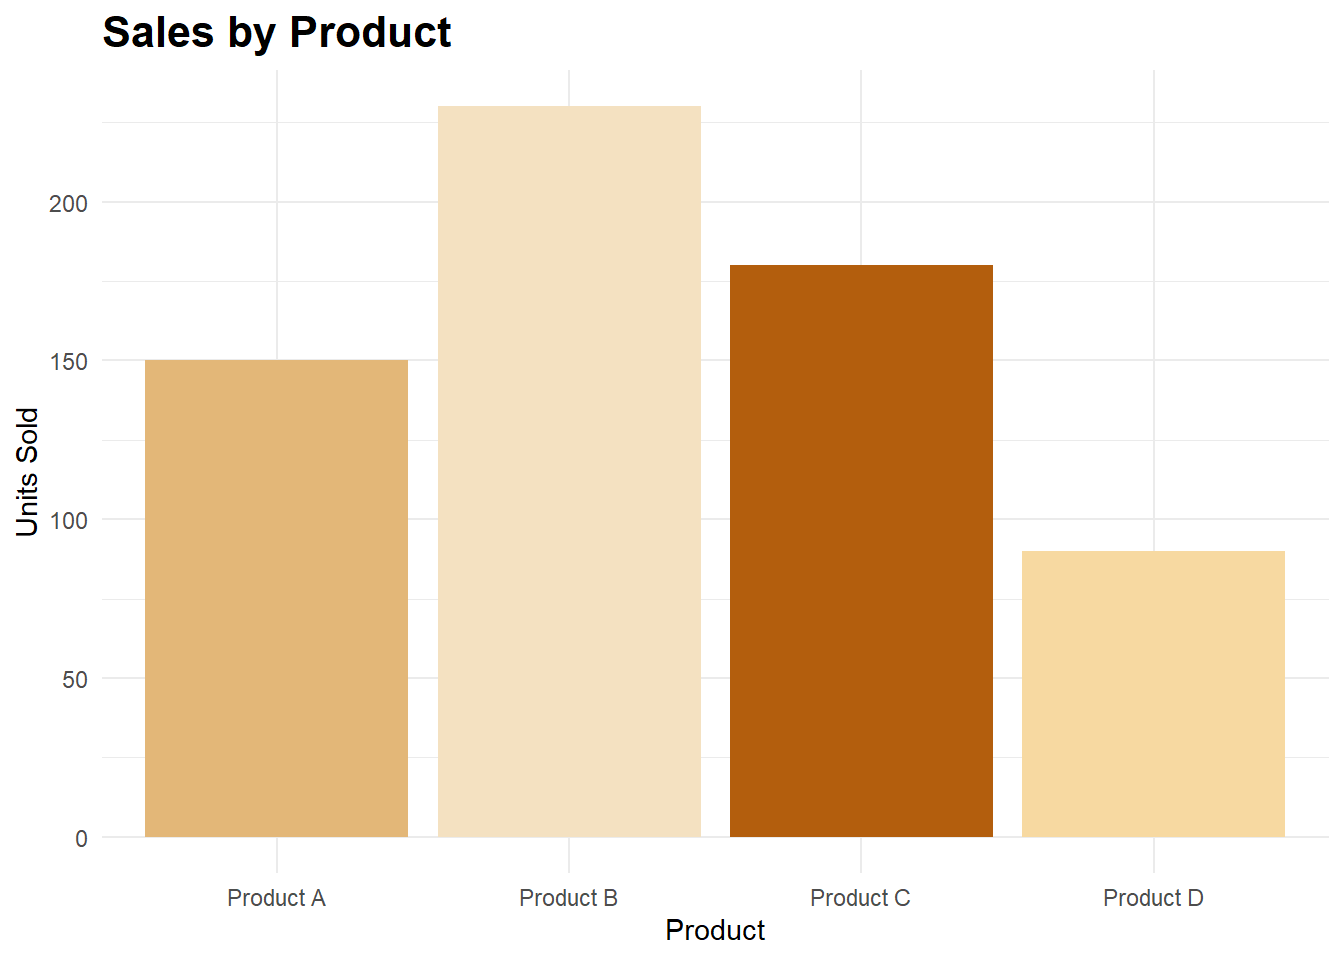
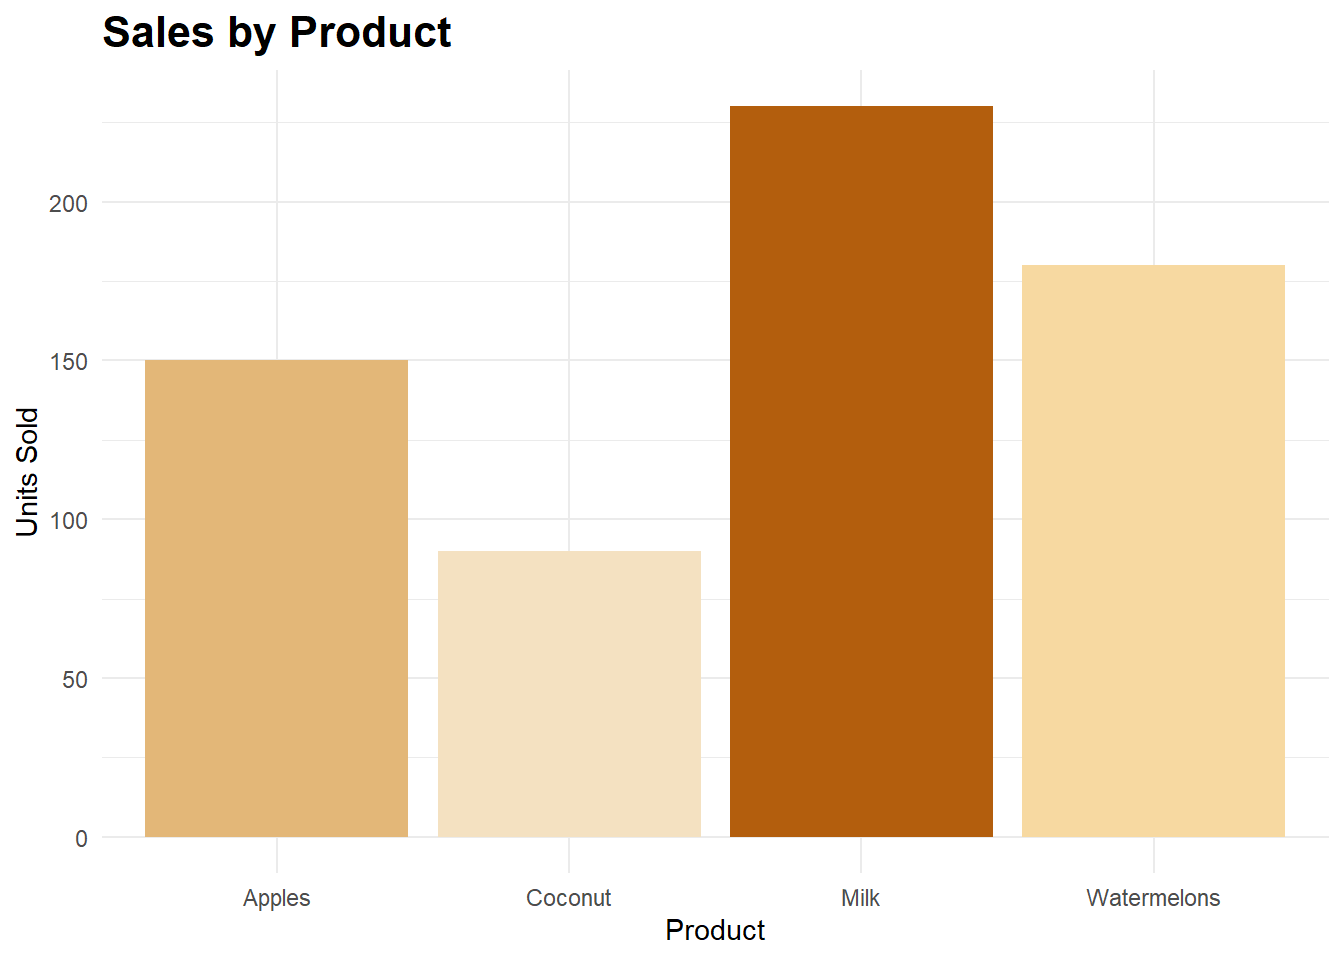
update

diff --git a/docs/data.html b/docs/data.html
@@ -194,7 +194,7 @@ pre > code.sourceCode > span > a:first-child::before { text-decoration: underlin
 
 <section id="data-visualizations" class="level1">
 <h1>Data Visualizations</h1>
-<p>Here are some example visualizations using dummy data to showcase basic data analysis and visualization skills in R.</p>
+<p>Here are some example visualizations using faked data to showcase basic data analysis and visualization skills in R.</p>
 <hr>
 <section id="sales-by-product-bar-chart" class="level2">
 <h2 class="anchored" data-anchor-id="sales-by-product-bar-chart">1. Sales by Product (Bar Chart)</h2>
@@ -202,7 +202,7 @@ pre > code.sourceCode > span > a:first-child::before { text-decoration: underlin
 <div class="code-copy-outer-scaffold"><div class="sourceCode cell-code" id="cb1"><pre class="sourceCode r code-with-copy"><code class="sourceCode r"><span id="cb1-1"><a href="#cb1-1" aria-hidden="true" tabindex="-1"></a><span class="fu">library</span>(ggplot2)</span>
 <span id="cb1-2"><a href="#cb1-2" aria-hidden="true" tabindex="-1"></a></span>
 <span id="cb1-3"><a href="#cb1-3" aria-hidden="true" tabindex="-1"></a><span class="co"># Example of sales data</span></span>
-<span id="cb1-4"><a href="#cb1-4" aria-hidden="true" tabindex="-1"></a>products <span class="ot">&lt;-</span> <span class="fu">c</span>(<span class="st">"Product A"</span>, <span class="st">"Product B"</span>, <span class="st">"Product C"</span>, <span class="st">"Product D"</span>)</span>
+<span id="cb1-4"><a href="#cb1-4" aria-hidden="true" tabindex="-1"></a>products <span class="ot">&lt;-</span> <span class="fu">c</span>(<span class="st">"Apples"</span>, <span class="st">"Milk"</span>, <span class="st">"Watermelons"</span>, <span class="st">"Coconut"</span>)</span>
 <span id="cb1-5"><a href="#cb1-5" aria-hidden="true" tabindex="-1"></a>sales <span class="ot">&lt;-</span> <span class="fu">c</span>(<span class="dv">150</span>, <span class="dv">230</span>, <span class="dv">180</span>, <span class="dv">90</span>)</span>
 <span id="cb1-6"><a href="#cb1-6" aria-hidden="true" tabindex="-1"></a>df <span class="ot">&lt;-</span> <span class="fu">data.frame</span>(products, sales)</span>
 <span id="cb1-7"><a href="#cb1-7" aria-hidden="true" tabindex="-1"></a></span>
